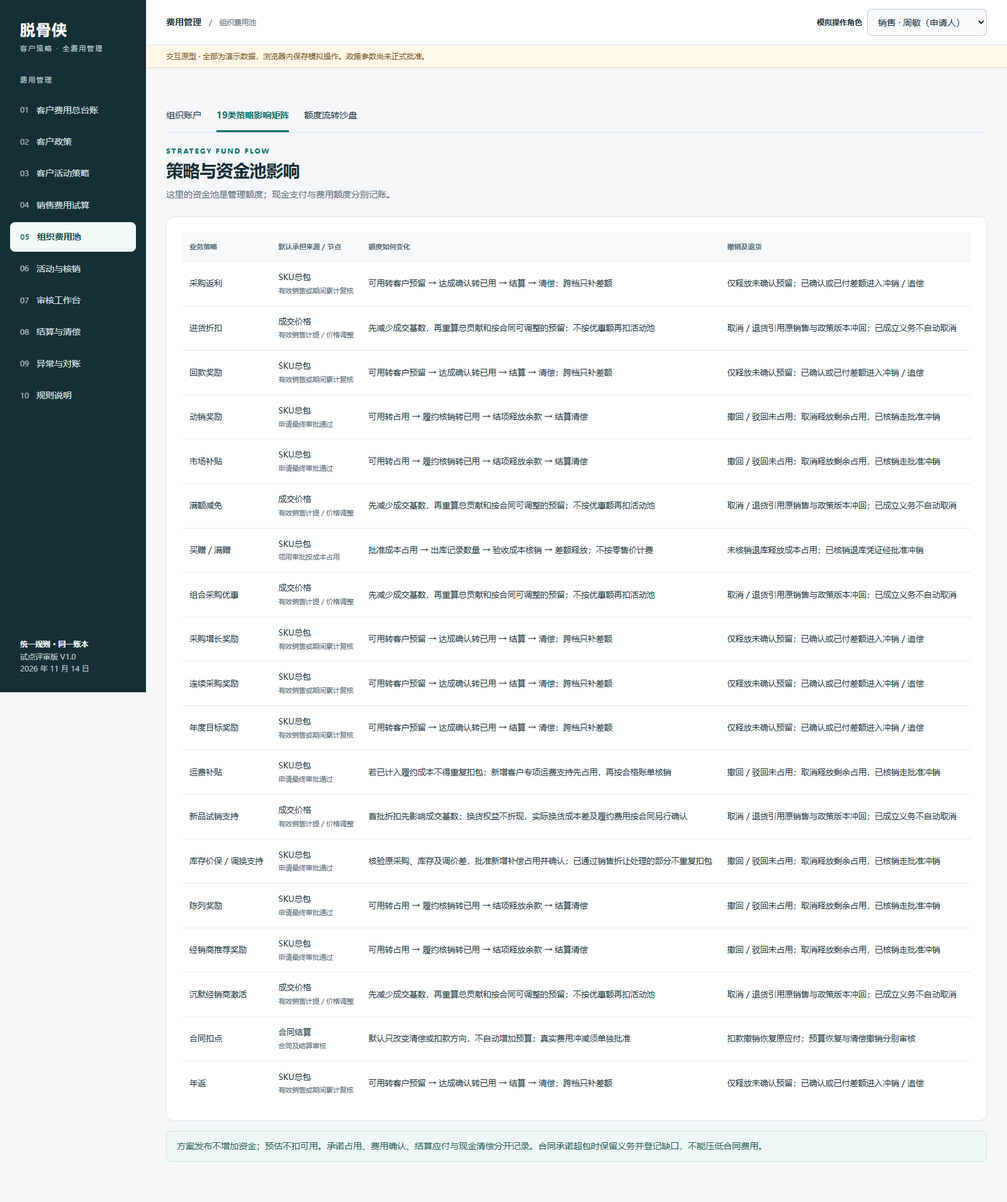
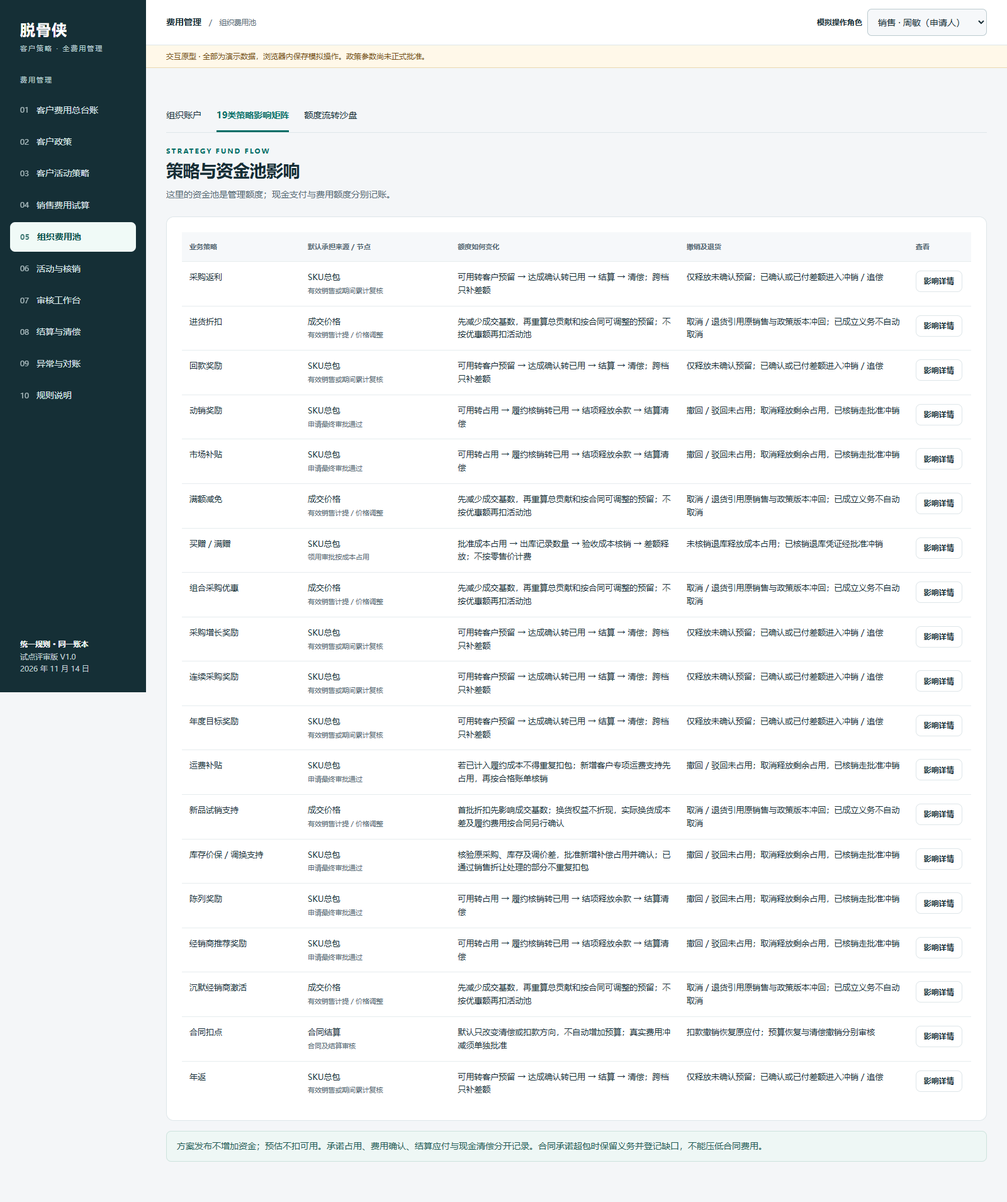
Auto sync 2026-11-16 17:15:43

Changed region(s): [[0.2812, 0.1853, 0.9688, 0.9267], [0.1875, 0.2162, 0.25, 0.8649]]

diff --git a/09-设计与原型/全费用管理/原型.html b/09-设计与原型/全费用管理/原型.html
@@ -4,6 +4,7 @@
 :root{--bg:#f4f6f8;--paper:#fff;--ink:#172d35;--muted:#536873;--line:#dee6e9;--brand:#006d66;--tint:#e8f4f1;--warn:#8b5308;--red:#b33131;--nav:#152f36;--r:12px}*{box-sizing:border-box}body{margin:0;font:14px/1.6 'Microsoft YaHei','PingFang SC',sans-serif;color:var(--ink);background:var(--bg)}button,input,select,textarea{font:inherit}button,a,input,select,textarea{outline-offset:3px}button:focus-visible,a:focus-visible,input:focus-visible,select:focus-visible,textarea:focus-visible{outline:3px solid #147fbc}button{cursor:pointer;min-height:40px;padding:8px 16px;border:1px solid var(--line);border-radius:8px;background:white;color:var(--ink);font-weight:600}button:hover{background:#eef4f4}button.primary{background:var(--brand);border-color:var(--brand);color:#fff}button.primary:hover{background:#005750}button:disabled{cursor:not-allowed;color:#66757b;background:#e8edef}button.danger{color:var(--red)}button.small{min-height:34px;padding:4px 12px;font-size:12px}.shell{display:grid;grid-template-columns:232px minmax(0,1fr);min-height:100vh}.sidebar{background:var(--nav);color:#fff;padding:28px 16px;position:sticky;top:0;height:100vh;display:flex;flex-direction:column}.brand{font-size:24px;font-weight:800;letter-spacing:1px;padding:0 16px}.brand small{display:block;color:#b9cfd2;font-size:11px;letter-spacing:2px;font-weight:400;margin-top:2px}.nav-label{color:#b9cfd2;font-size:11px;letter-spacing:2px;margin:32px 16px 12px}.nav button{display:flex;align-items:center;gap:12px;text-align:left;width:100%;background:transparent;color:#d9e7e9;border:0;font-weight:400;margin:4px 0;padding:12px 16px}.nav button span:first-child{font-size:12px;opacity:.75;font-variant-numeric:tabular-nums}.nav button:hover{background:#26434a}.nav button[aria-current=page]{background:#f0faf7;color:#064f49;font-weight:700}.side-foot{margin-top:auto;padding:24px 16px 0;color:#c0d1d4;font-size:12px}.side-foot strong{color:#fff;display:block}.main{min-width:0}.topbar{padding:14px 32px;background:white;border-bottom:1px solid var(--line);display:flex;justify-content:space-between;align-items:center;gap:16px;flex-wrap:wrap}.topbar small{color:var(--muted)}.topbar select{min-width:190px;background:#f6f8fa}.demo{background:#fff8e9;border-bottom:1px solid #ead8b1;padding:8px 32px;color:#765019;font-size:12px}.content{padding:28px 32px 48px;max-width:1600px;margin:auto}.heading{display:flex;justify-content:space-between;align-items:flex-start;gap:16px;margin-bottom:24px}.eyebrow{font-size:11px;color:var(--brand);letter-spacing:2px;font-weight:700}.heading h1{font-size:27px;line-height:1.4;margin:4px 0 8px;letter-spacing:-.5px}.heading p{margin:0;color:var(--muted)}.actions{display:flex;gap:8px;align-items:center;flex-wrap:wrap}.grid{display:grid;gap:16px}.stats{grid-template-columns:repeat(4,minmax(0,1fr));margin:20px 0}.card{background:var(--paper);border:1px solid var(--line);border-radius:var(--r);padding:24px}.stat{padding:20px 24px}.stat .label{color:var(--muted);font-size:12px}.stat .number{font-size:28px;line-height:1.4;font-weight:750;margin:8px 0 4px;letter-spacing:-.5px;font-variant-numeric:tabular-nums}.stat small{font-size:12px;color:var(--muted)}.stat.accent{background:var(--brand);color:white;border-color:var(--brand)}.stat.accent .label,.stat.accent small{color:#d5efea}.split{grid-template-columns:minmax(0,1.6fr) minmax(280px,1fr)}h2{font-size:17px;margin:0 0 16px}h3{font-size:14px;margin:20px 0 10px}p{margin:8px 0}small,.muted{color:var(--muted)}.tag{display:inline-block;border-radius:6px;background:#edf1f4;color:#405b66;padding:3px 9px;font-size:11px;white-space:nowrap}.tag.ok{background:#e4f3eb;color:#126241}.tag.warn{background:#fff2d8;color:#83510b}.tag.bad{background:#fdeaea;color:#9a2929}.tag.blue{background:#e9effc;color:#31569a}.tagline{display:flex;gap:8px;flex-wrap:wrap;margin-top:12px}.banner{background:#eef7f5;color:#235c56;border:1px solid #cde3dd;padding:12px 16px;border-radius:8px;margin:16px 0}.banner.warn{background:#fff7e8;color:#80500e;border-color:#ead9b4}.banner.error{background:#fff0ef;color:#9a2929;border-color:#e8b9b6}.tabs{display:flex;gap:24px;border-bottom:1px solid var(--line);margin:24px 0 20px;overflow:auto}.tabs button{border:0;border-bottom:3px solid transparent;border-radius:0;padding:12px 0;white-space:nowrap;background:transparent;font-weight:400}.tabs button[aria-selected=true]{color:var(--brand);border-color:var(--brand);font-weight:700}.toolbar{display:flex;gap:12px;align-items:end;flex-wrap:wrap;margin-bottom:16px}input,select,textarea{border:1px solid #bccbd0;border-radius:7px;padding:10px 12px;min-height:42px;background:white;color:var(--ink);max-width:100%}input[type=number]{font-variant-numeric:tabular-nums}label{display:block;font-size:12px;font-weight:600;margin-bottom:6px}textarea{min-height:88px;resize:vertical;width:100%}.field{display:flex;flex-direction:column;gap:3px}.field small{font-size:11px}.fields{display:grid;grid-template-columns:repeat(2,minmax(0,1fr));gap:16px}.field input,.field select{width:100%}.wide{grid-column:1/-1}.table-wrap{overflow:auto}table{border-collapse:collapse;width:100%;text-align:left;white-space:nowrap;font-size:13px}th{font-size:11px;color:var(--muted);background:#f6f8fa;font-weight:600}th,td{padding:14px 12px;border-bottom:1px solid #e6ecee}td.num,th.num{text-align:right;font-variant-numeric:tabular-nums}td.wrap{white-space:normal;min-width:180px;max-width:340px}tbody tr:last-child td{border-bottom:0}tbody tr:hover{background:#f9fbfb}.steps{display:grid;grid-template-columns:repeat(5,minmax(0,1fr));margin:20px 0;gap:8px}.step{padding:12px;background:#f4f7f8;border-radius:8px;font-size:12px}.step strong{display:block;color:var(--brand);margin-bottom:5px;font-size:11px}.stack{display:flex;height:32px;border-radius:7px;overflow:hidden;margin:20px 0 12px}.stack span{min-width:2px}.legend{display:flex;gap:16px;flex-wrap:wrap;font-size:12px}.dot{display:inline-block;width:8px;height:8px;margin-right:6px;border-radius:2px}.keyval{display:flex;justify-content:space-between;gap:16px;padding:10px 0;border-bottom:1px solid #edf1f3}.keyval:last-child{border:0}.keyval span{color:var(--muted)}.keyval strong{text-align:right;font-weight:600}.note{font-size:12px;color:var(--muted);margin-top:12px}.empty{text-align:center;padding:40px;color:var(--muted)}.empty strong{display:block;color:var(--ink);margin-bottom:8px}.activity{display:flex;justify-content:space-between;align-items:center;padding:14px 0;border-bottom:1px solid var(--line);gap:16px}.activity:last-child{border:0}.activity small{display:block}.rule-item{margin-bottom:16px}.rule-item summary{font-size:16px;font-weight:700;cursor:pointer;padding:4px 0}.rule-item li{margin:10px 0}.rule-item ul{padding-left:22px}.rule-item table{white-space:normal;margin-top:16px}.flowline{font-size:12px;display:flex;align-items:center;gap:8px;flex-wrap:wrap}.flowline b{background:#eff4f5;padding:5px 10px;border-radius:6px;font-weight:500}.flowline .done{background:#dff2e8;color:#126241}.flowline .current{outline:1px solid var(--brand);color:var(--brand)}.toast{position:fixed;bottom:24px;right:24px;max-width:480px;z-index:30;padding:16px 24px;background:#183b36;color:white;border-radius:10px;box-shadow:0 8px 32px #172d3530}.toast.error{background:#852e2e}.hidden{display:none!important}dialog{width:min(700px,calc(100% - 32px));border:0;border-radius:16px;padding:0;box-shadow:0 16px 80px #142d3555;max-height:90vh;color:var(--ink)}dialog::backdrop{background:#142d3570}.dialog-head{display:flex;justify-content:space-between;align-items:center;border-bottom:1px solid var(--line);padding:20px 24px}.dialog-head h2{margin:0}.dialog-body{padding:24px}.dialog-foot{display:flex;justify-content:flex-end;gap:8px;padding:16px 24px;border-top:1px solid var(--line)}.error-text{color:var(--red);font-size:12px;min-height:20px}.progress{height:7px;border-radius:5px;background:#e9eff1;overflow:hidden;margin:12px 0}.progress span{display:block;background:var(--brand);height:100%}a{color:var(--brand)}.skip{position:absolute;top:-80px;left:240px;background:white;z-index:50;padding:12px}.skip:focus{top:8px}@media(max-width:1100px){.shell{grid-template-columns:190px minmax(0,1fr)}.content{padding:24px}.sidebar{padding:24px 12px}.topbar{padding:12px 24px}.stats{grid-template-columns:repeat(2,minmax(0,1fr))}.split{grid-template-columns:1fr}.steps{grid-template-columns:repeat(3,minmax(0,1fr))}}@media(max-width:700px){.shell{display:block}.sidebar{position:static;height:auto;padding:16px}.brand{font-size:20px}.brand small,.nav-label,.side-foot{display:none}.nav{display:flex;overflow:auto;gap:8px;margin-top:12px}.nav button{width:auto;min-width:max-content;padding:8px 12px}.nav button span:first-child{display:none}.content{padding:20px 16px}.topbar{padding:12px 16px}.demo{padding:8px 16px}.heading{flex-direction:column}.heading h1{font-size:24px}.stats{gap:8px}.stat{padding:16px}.stat .number{font-size:24px}.card{padding:16px}.fields{grid-template-columns:1fr}.steps{grid-template-columns:1fr 1fr}.toast{left:16px;right:16px;bottom:16px}.tabs{gap:20px}}@media(prefers-reduced-motion:reduce){*{scroll-behavior:auto!important;animation:none!important;transition:none!important}}@media print{.sidebar,.topbar,.demo,.actions,.toolbar,dialog,.toast{display:none}.shell{display:block}.content{padding:0}.card{break-inside:avoid}.stats{grid-template-columns:repeat(4,1fr)}}
 .grid>*{min-width:0}.card{min-width:0}
 #programForm summary input[type=checkbox]{width:16px;height:16px;min-height:16px;padding:0;vertical-align:middle;margin:0 8px 0 0}#programForm .rule-item summary{font-size:14px;min-height:40px;line-height:24px;padding:8px 0}
+#fundMatrix table{table-layout:fixed;white-space:normal}#fundMatrix td,#fundMatrix th{white-space:normal;overflow-wrap:anywhere;vertical-align:top}#fundMatrix th:nth-child(1){width:15%}#fundMatrix th:nth-child(2){width:19%}#fundMatrix th:nth-child(3){width:29%}#fundMatrix th:nth-child(4){width:29%}#fundMatrix th:nth-child(5){width:8%}#fundMatrix .table-wrap{min-width:0}
 </style></head><body>
 <a class="skip" href="#workspace">跳到主要内容</a><div class="shell"><aside class="sidebar"><div class="brand">脱骨侠<small>客户策略 · 全费用管理</small></div><div class="nav-label">费用管理</div><nav class="nav" aria-label="主要导航" id="nav"></nav><div class="side-foot"><strong>统一规则 · 同一账本</strong>试点评审版 V1.0<br>2026 年 11 月 14 日</div></aside><main class="main"><header class="topbar"><div><strong>费用管理</strong><small>　/　<span id="crumb">客户费用总台账</span></small></div><div class="actions"><label for="role" style="margin:0">模拟操作角色</label><select id="role"><option value="sales">销售 · 周敏（申请人）</option><option value="pool3">省区池负责人 · 李岚</option><option value="pool2">大区池负责人 · 陈宇</option><option value="pool1">中心池负责人 · 赵宁</option><option value="pool0">总部池负责人 · 许然</option><option value="center">中心授权负责人 · 郑青</option><option value="hq">总部授权负责人 · 吴昊</option><option value="business">业务核销复核 · 孙悦</option><option value="finance">财务复核 · 林珊</option></select></div></header><div class="demo">交互原型 · 全部为演示数据，浏览器内保存模拟操作。政策参数尚未正式批准。<span id="storageWarning"></span></div><div class="content" id="workspace" tabindex="-1"></div></main></div>
 <dialog id="modal" aria-labelledby="modalTitle"><div class="dialog-head"><h2 id="modalTitle"></h2><button id="closeModal" aria-label="关闭弹窗">关闭</button></div><div id="modalBody" class="dialog-body"></div></dialog><div id="toast" class="toast hidden" role="status" aria-live="polite"></div>
@@ -35,7 +36,7 @@ function render(){
  ensureSchemes();
  ensurePrograms();
  $('nav').innerHTML=pages.map(([id,num,label])=>`<button data-nav="${id}" ${page===id?'aria-current="page"':''}><span>${num}</span><span>${label}</span></button>`).join('');$('crumb').textContent=pages.find(x=>x[0]===page)[2];
- const views={ledger:ledgerView,policies:policyView,programs:programListView,programs:programListView,programs:programListView,programs:programListView,programs:programListView,programs:programListView,programs:programListView,calculator:calcView,pools:poolsView,activities:activitiesView,approval:approvalView,settlement:settlementView,exceptions:exceptionsView,rules:rulesView};$('workspace').innerHTML=views[page]();if(page==='calculator'&&$('calcForm'))calculate();if(page==='activities')drawActivityRows();
+ const views={ledger:ledgerView,policies:policyView,programs:programListView,programs:programListView,programs:programListView,programs:programListView,programs:programListView,programs:programListView,programs:programListView,programs:programListView,calculator:calcView,pools:poolsView,activities:activitiesView,approval:approvalView,settlement:settlementView,exceptions:exceptionsView,rules:rulesView};$('workspace').innerHTML=views[page]();if(page==='calculator'&&$('calcForm'))calculate();if(page==='activities')drawActivityRows();
 }
 function ledgerView(){const b=balances(),used=sum(b.used),available=sum(b.available),occ=sum(b.occupied),confirmed=200000+used;
 return heading('CUSTOMER EXPENSE LEDGER','客户费用总台账','统一查看客户贡献、费用承诺与实际投入。',`<button data-action="export">导出台账 CSV</button><button class="primary" data-action="new">发起活动申请</button>`)+
@@ -1727,7 +1728,7 @@ function loadFundSandbox(){if(fundSandbox)return fundSandbox;try{fundSandbox=JSO
 function saveFundSandbox(){try{sessionStorage.setItem('tgx-fund-sandbox-v1',JSON.stringify(fundSandbox))}catch{}}
 function fundTotals(b){const source=b.contribution+b.topup+b.transfer,committed=b.r+b.s+b.c+b.h+b.locked;return{source,available:Math.max(0,source-committed),gap:Math.max(0,committed-source),committed}}
 function fundMatrix(){return table(['业务策略','默认承担来源 / 节点','额度如何变化','撤销及退货','查看'],fundDefaultRules().map(r=>{const p=fundPolicy(r);return[esc(r.kind),esc(p.source)+'<br><small>'+esc(p.trigger)+'</small>',`<span class="wrap">${esc(p.flow)}</span>`,`<span class="wrap">${esc(p.reverse)}</span>`,`<button class="small" data-fund-detail="${r.id}">影响详情</button>`]}))}
-poolsView=function(){const top=`<div class="tabs"><button data-fund-tab="accounts" aria-selected="${fundTab==='accounts'}">组织账户</button><button data-fund-tab="matrix" aria-selected="${fundTab==='matrix'}">19类策略影响矩阵</button><button data-fund-tab="sandbox" aria-selected="${fundTab==='sandbox'}">额度流转沙盘</button></div>`;if(fundTab==='accounts')return top+existingPoolView();return top+heading('STRATEGY FUND FLOW',fundTab==='matrix'?'策略与资金池影响':'策略额度流转沙盘','这里的资金池是管理额度；现金支付与费用额度分别记账。')+(fundTab==='matrix'?`<section class="card">${fundMatrix()}</section><div class="banner">方案发布不增加资金；预估不扣可用。承诺占用、费用确认、结算应付与现金清偿分开记录。合同承诺超包时保留义务并登记缺口，不能压低合同费用。</div>`:fundSandboxView())};
+poolsView=function(){const top=`<div class="tabs"><button data-fund-tab="accounts" aria-selected="${fundTab==='accounts'}">组织账户</button><button data-fund-tab="matrix" aria-selected="${fundTab==='matrix'}">19类策略影响矩阵</button><button data-fund-tab="sandbox" aria-selected="${fundTab==='sandbox'}">额度流转沙盘</button></div>`;if(fundTab==='accounts')return top+existingPoolView();return top+heading('STRATEGY FUND FLOW',fundTab==='matrix'?'策略与资金池影响':'策略额度流转沙盘','这里的资金池是管理额度；现金支付与费用额度分别记账。')+(fundTab==='matrix'?`<section class="card" id="fundMatrix">${fundMatrix()}</section><div class="banner">方案发布不增加资金；预估不扣可用。承诺占用、费用确认、结算应付与现金清偿分开记录。合同承诺超包时保留义务并登记缺口，不能压低合同费用。</div>`:fundSandboxView())};
 function openFundDetail(id){const r=state.dealerRules.find(r=>r.id===id),p=fundPolicy(r);launchPage({kind:'fundStrategy',id},()=>showModal(r.kind+' · 资金池影响',`<h2>${esc(r.kind)} ${tag('规则 V'+r.version)}</h2>${table(['设计项','处理规则'],[['计价及单位',r.route==='physical'?'按批准成本，数量和金额分别保存':r.route==='price'?'按成交基数变化，不再以让利额扣费用包':'按政策约定金额及税口径'],['承担来源',esc(p.source)],['生效节点',esc(p.trigger)],['额度路径',esc(p.flow)],['撤销及调整',esc(p.reverse)],['多池及多客户','承担组织分别授权，来源客户和受益客户分别保存；拆分合计等于原金额'],['缺口处理','新活动不足时不占用；已成立合同预留不足时登记缺口，暂停新释放'],['付款控制','已确认费用转应付后可清偿，支付及抵扣不再次减少预算']])}<div class="actions" style="margin-top:16px"><button class="primary" data-fund-sim="${id}">模拟本策略资金流转</button><button data-rule-open="${id}">查看策略配置</button></div>`))}
 function fundSandboxView(){const b=loadFundSandbox(),v=fundTotals(b),r=state.dealerRules.find(r=>r.id===fundRuleId)||state.dealerRules[0],policy=fundPolicy(r);return`<div class="banner warn"><strong>隔离沙盘 · 不入业务账本</strong>　${esc(b.baseNote)}<br>沙盘事件仅保存于本标签页；重置可重新读取当前演示期初。${v.gap?'存在缺口，禁止新增活动占用；已确认义务和原支付记录保留。':''}</div><div class="grid stats">${stat('有效来源合计',money(v.source),'销售贡献 + 专项补足 + 净调入')}${stat('客户未确认预留',money(b.r+b.s),'返利与服务分别记录')}${stat('可用活动额度',money(v.available),'尚未承诺和使用的来源',true)}${stat('待补足缺口',money(v.gap),'不形成负可用，不删除义务')}</div><div class="grid split"><section class="card"><h2>选择策略与业务事件</h2><form id="fundEventForm"><div class="fields"><div class="field wide"><label for="fundRule">策略业务</label><select id="fundRule">${state.dealerRules.map(s=>`<option value="${s.id}" ${s.id===fundRuleId?'selected':''}>${esc(s.kind)}</option>`).join('')}</select></div><div class="field wide"><label for="fundAction">业务节点</label><select id="fundAction">${[...new Set([...policy.actions,'inject','transfer_out'])].map(a=>`<option value="${a}">${fundActions[a]}</option>`).join('')}</select></div><div class="field"><label for="fundAmount">事件金额 / 累计返利目标（元）</label><input id="fundAmount" type="number" min="0" step="0.01" value="100" required><small>价格及退货填销售基数减少额；累计复核填累计应享目标；其他填本次变动。</small></div><div class="field"><label for="fundRef">业务单据号 *</label><input id="fundRef" value="SIM-001" maxlength="60" required></div><div class="field"><label for="fundProject">关联活动 / 项目 *</label><input id="fundProject" value="OPEN-ACT" maxlength="60" required><small>期初500元占用在 OPEN-ACT；新申请请使用新的项目号。</small></div><div class="field"><label for="fundVersion">事件版本 *</label><input id="fundVersion" type="number" min="1" step="1" value="1" required></div><div class="field"><label for="fundQty">实物数量</label><input id="fundQty" type="number" min="1" step="1" value="10"></div><div class="field"><label for="fundCost">实物单位成本（元）</label><input id="fundCost" type="number" min="0.01" step="0.01" value="20"></div></div><div class="banner">${esc(policy.flow)}<br>实物领用使用“数量 × 单位成本”；付款不扣池；累计返利比较时包含已确认和已支付部分。</div><p id="fundError" class="error-text" role="alert"></p><div class="actions"><button type="button" data-fund-preview>预览前后变化</button><button type="submit" class="primary">记入沙盘事件</button><button type="button" data-fund-reset>重置沙盘</button></div></form><div id="fundPreview" aria-live="polite"></div></section><section class="card"><h2>当前额度与清偿状态</h2>${fundStateTable(b)}<div class="banner">对平：${money(v.source)} + ${money(v.gap)} = ${money(b.r+b.s)}预留 + ${money(b.c)}已用 + ${money(b.h)}占用 + ${money(b.locked)}待解锁 + ${money(v.available)}可用<br>✓ 缺口单列；付款、应付与追偿不重复加进来源对平。</div><p class="note">价格调整按本沙盘10%总率、2%返利、3%服务比例演示，仅释放可调整的未确认预留；真实合同固定费和不可退义务须按原合同保留。</p></section></div><section class="card" style="margin-top:16px"><h2>事件流水与追溯</h2>${table(['事件 / 业务单据','策略及项目','可用前 → 后','预留前 → 后','缺口前 → 后'],b.events.map(e=>[esc(e.action)+'<br><small>'+esc(e.ref)+' / V'+e.version+'</small>',esc(e.kind)+'<br><small>'+esc(e.project)+'</small>',money(e.before.available)+' → '+money(e.after.available),money(e.before.reserve)+' → '+money(e.after.reserve),money(e.before.gap)+' → '+money(e.after.gap)]))}</section>`}
 function fundStateTable(b){return table(['记录层次','金额'],[['销售费用贡献',money(b.contribution)],['专项注入 / 净调入',money(b.topup)+' / '+money(b.transfer)],['未确认返利预留',money(b.r)],['未确认服务预留',money(b.s)],['未核销承诺占用',money(b.h)],['累计净确认费用',money(b.c)],['已确认待结算',money(b.unsettled)],['已结算未清偿',money(b.due)],['已支付 / 已抵扣',money(b.paid)],['已追回 / 待冲销退款',money(b.refunded||0)+' / '+money(b.refundPending||0)],['待冲销 / 追偿提示',money(b.claim)]])}

diff --git a/09-设计与原型/全费用管理/fund-flow.js b/09-设计与原型/全费用管理/fund-flow.js
@@ -16,7 +16,7 @@ function loadFundSandbox(){if(fundSandbox)return fundSandbox;try{fundSandbox=JSO
 function saveFundSandbox(){try{sessionStorage.setItem('tgx-fund-sandbox-v1',JSON.stringify(fundSandbox))}catch{}}
 function fundTotals(b){const source=b.contribution+b.topup+b.transfer,committed=b.r+b.s+b.c+b.h+b.locked;return{source,available:Math.max(0,source-committed),gap:Math.max(0,committed-source),committed}}
 function fundMatrix(){return table(['业务策略','默认承担来源 / 节点','额度如何变化','撤销及退货','查看'],fundDefaultRules().map(r=>{const p=fundPolicy(r);return[esc(r.kind),esc(p.source)+'<br><small>'+esc(p.trigger)+'</small>',`<span class="wrap">${esc(p.flow)}</span>`,`<span class="wrap">${esc(p.reverse)}</span>`,`<button class="small" data-fund-detail="${r.id}">影响详情</button>`]}))}
-poolsView=function(){const top=`<div class="tabs"><button data-fund-tab="accounts" aria-selected="${fundTab==='accounts'}">组织账户</button><button data-fund-tab="matrix" aria-selected="${fundTab==='matrix'}">19类策略影响矩阵</button><button data-fund-tab="sandbox" aria-selected="${fundTab==='sandbox'}">额度流转沙盘</button></div>`;if(fundTab==='accounts')return top+existingPoolView();return top+heading('STRATEGY FUND FLOW',fundTab==='matrix'?'策略与资金池影响':'策略额度流转沙盘','这里的资金池是管理额度；现金支付与费用额度分别记账。')+(fundTab==='matrix'?`<section class="card">${fundMatrix()}</section><div class="banner">方案发布不增加资金；预估不扣可用。承诺占用、费用确认、结算应付与现金清偿分开记录。合同承诺超包时保留义务并登记缺口，不能压低合同费用。</div>`:fundSandboxView())};
+poolsView=function(){const top=`<div class="tabs"><button data-fund-tab="accounts" aria-selected="${fundTab==='accounts'}">组织账户</button><button data-fund-tab="matrix" aria-selected="${fundTab==='matrix'}">19类策略影响矩阵</button><button data-fund-tab="sandbox" aria-selected="${fundTab==='sandbox'}">额度流转沙盘</button></div>`;if(fundTab==='accounts')return top+existingPoolView();return top+heading('STRATEGY FUND FLOW',fundTab==='matrix'?'策略与资金池影响':'策略额度流转沙盘','这里的资金池是管理额度；现金支付与费用额度分别记账。')+(fundTab==='matrix'?`<section class="card" id="fundMatrix">${fundMatrix()}</section><div class="banner">方案发布不增加资金；预估不扣可用。承诺占用、费用确认、结算应付与现金清偿分开记录。合同承诺超包时保留义务并登记缺口，不能压低合同费用。</div>`:fundSandboxView())};
 function openFundDetail(id){const r=state.dealerRules.find(r=>r.id===id),p=fundPolicy(r);launchPage({kind:'fundStrategy',id},()=>showModal(r.kind+' · 资金池影响',`<h2>${esc(r.kind)} ${tag('规则 V'+r.version)}</h2>${table(['设计项','处理规则'],[['计价及单位',r.route==='physical'?'按批准成本，数量和金额分别保存':r.route==='price'?'按成交基数变化，不再以让利额扣费用包':'按政策约定金额及税口径'],['承担来源',esc(p.source)],['生效节点',esc(p.trigger)],['额度路径',esc(p.flow)],['撤销及调整',esc(p.reverse)],['多池及多客户','承担组织分别授权，来源客户和受益客户分别保存；拆分合计等于原金额'],['缺口处理','新活动不足时不占用；已成立合同预留不足时登记缺口，暂停新释放'],['付款控制','已确认费用转应付后可清偿，支付及抵扣不再次减少预算']])}<div class="actions" style="margin-top:16px"><button class="primary" data-fund-sim="${id}">模拟本策略资金流转</button><button data-rule-open="${id}">查看策略配置</button></div>`))}
 function fundSandboxView(){const b=loadFundSandbox(),v=fundTotals(b),r=state.dealerRules.find(r=>r.id===fundRuleId)||state.dealerRules[0],policy=fundPolicy(r);return`<div class="banner warn"><strong>隔离沙盘 · 不入业务账本</strong>　${esc(b.baseNote)}<br>沙盘事件仅保存于本标签页；重置可重新读取当前演示期初。${v.gap?'存在缺口，禁止新增活动占用；已确认义务和原支付记录保留。':''}</div><div class="grid stats">${stat('有效来源合计',money(v.source),'销售贡献 + 专项补足 + 净调入')}${stat('客户未确认预留',money(b.r+b.s),'返利与服务分别记录')}${stat('可用活动额度',money(v.available),'尚未承诺和使用的来源',true)}${stat('待补足缺口',money(v.gap),'不形成负可用，不删除义务')}</div><div class="grid split"><section class="card"><h2>选择策略与业务事件</h2><form id="fundEventForm"><div class="fields"><div class="field wide"><label for="fundRule">策略业务</label><select id="fundRule">${state.dealerRules.map(s=>`<option value="${s.id}" ${s.id===fundRuleId?'selected':''}>${esc(s.kind)}</option>`).join('')}</select></div><div class="field wide"><label for="fundAction">业务节点</label><select id="fundAction">${[...new Set([...policy.actions,'inject','transfer_out'])].map(a=>`<option value="${a}">${fundActions[a]}</option>`).join('')}</select></div><div class="field"><label for="fundAmount">事件金额 / 累计返利目标（元）</label><input id="fundAmount" type="number" min="0" step="0.01" value="100" required><small>价格及退货填销售基数减少额；累计复核填累计应享目标；其他填本次变动。</small></div><div class="field"><label for="fundRef">业务单据号 *</label><input id="fundRef" value="SIM-001" maxlength="60" required></div><div class="field"><label for="fundProject">关联活动 / 项目 *</label><input id="fundProject" value="OPEN-ACT" maxlength="60" required><small>期初500元占用在 OPEN-ACT；新申请请使用新的项目号。</small></div><div class="field"><label for="fundVersion">事件版本 *</label><input id="fundVersion" type="number" min="1" step="1" value="1" required></div><div class="field"><label for="fundQty">实物数量</label><input id="fundQty" type="number" min="1" step="1" value="10"></div><div class="field"><label for="fundCost">实物单位成本（元）</label><input id="fundCost" type="number" min="0.01" step="0.01" value="20"></div></div><div class="banner">${esc(policy.flow)}<br>实物领用使用“数量 × 单位成本”；付款不扣池；累计返利比较时包含已确认和已支付部分。</div><p id="fundError" class="error-text" role="alert"></p><div class="actions"><button type="button" data-fund-preview>预览前后变化</button><button type="submit" class="primary">记入沙盘事件</button><button type="button" data-fund-reset>重置沙盘</button></div></form><div id="fundPreview" aria-live="polite"></div></section><section class="card"><h2>当前额度与清偿状态</h2>${fundStateTable(b)}<div class="banner">对平：${money(v.source)} + ${money(v.gap)} = ${money(b.r+b.s)}预留 + ${money(b.c)}已用 + ${money(b.h)}占用 + ${money(b.locked)}待解锁 + ${money(v.available)}可用<br>✓ 缺口单列；付款、应付与追偿不重复加进来源对平。</div><p class="note">价格调整按本沙盘10%总率、2%返利、3%服务比例演示，仅释放可调整的未确认预留；真实合同固定费和不可退义务须按原合同保留。</p></section></div><section class="card" style="margin-top:16px"><h2>事件流水与追溯</h2>${table(['事件 / 业务单据','策略及项目','可用前 → 后','预留前 → 后','缺口前 → 后'],b.events.map(e=>[esc(e.action)+'<br><small>'+esc(e.ref)+' / V'+e.version+'</small>',esc(e.kind)+'<br><small>'+esc(e.project)+'</small>',money(e.before.available)+' → '+money(e.after.available),money(e.before.reserve)+' → '+money(e.after.reserve),money(e.before.gap)+' → '+money(e.after.gap)]))}</section>`}
 function fundStateTable(b){return table(['记录层次','金额'],[['销售费用贡献',money(b.contribution)],['专项注入 / 净调入',money(b.topup)+' / '+money(b.transfer)],['未确认返利预留',money(b.r)],['未确认服务预留',money(b.s)],['未核销承诺占用',money(b.h)],['累计净确认费用',money(b.c)],['已确认待结算',money(b.unsettled)],['已结算未清偿',money(b.due)],['已支付 / 已抵扣',money(b.paid)],['已追回 / 待冲销退款',money(b.refunded||0)+' / '+money(b.refundPending||0)],['待冲销 / 追偿提示',money(b.claim)]])}
